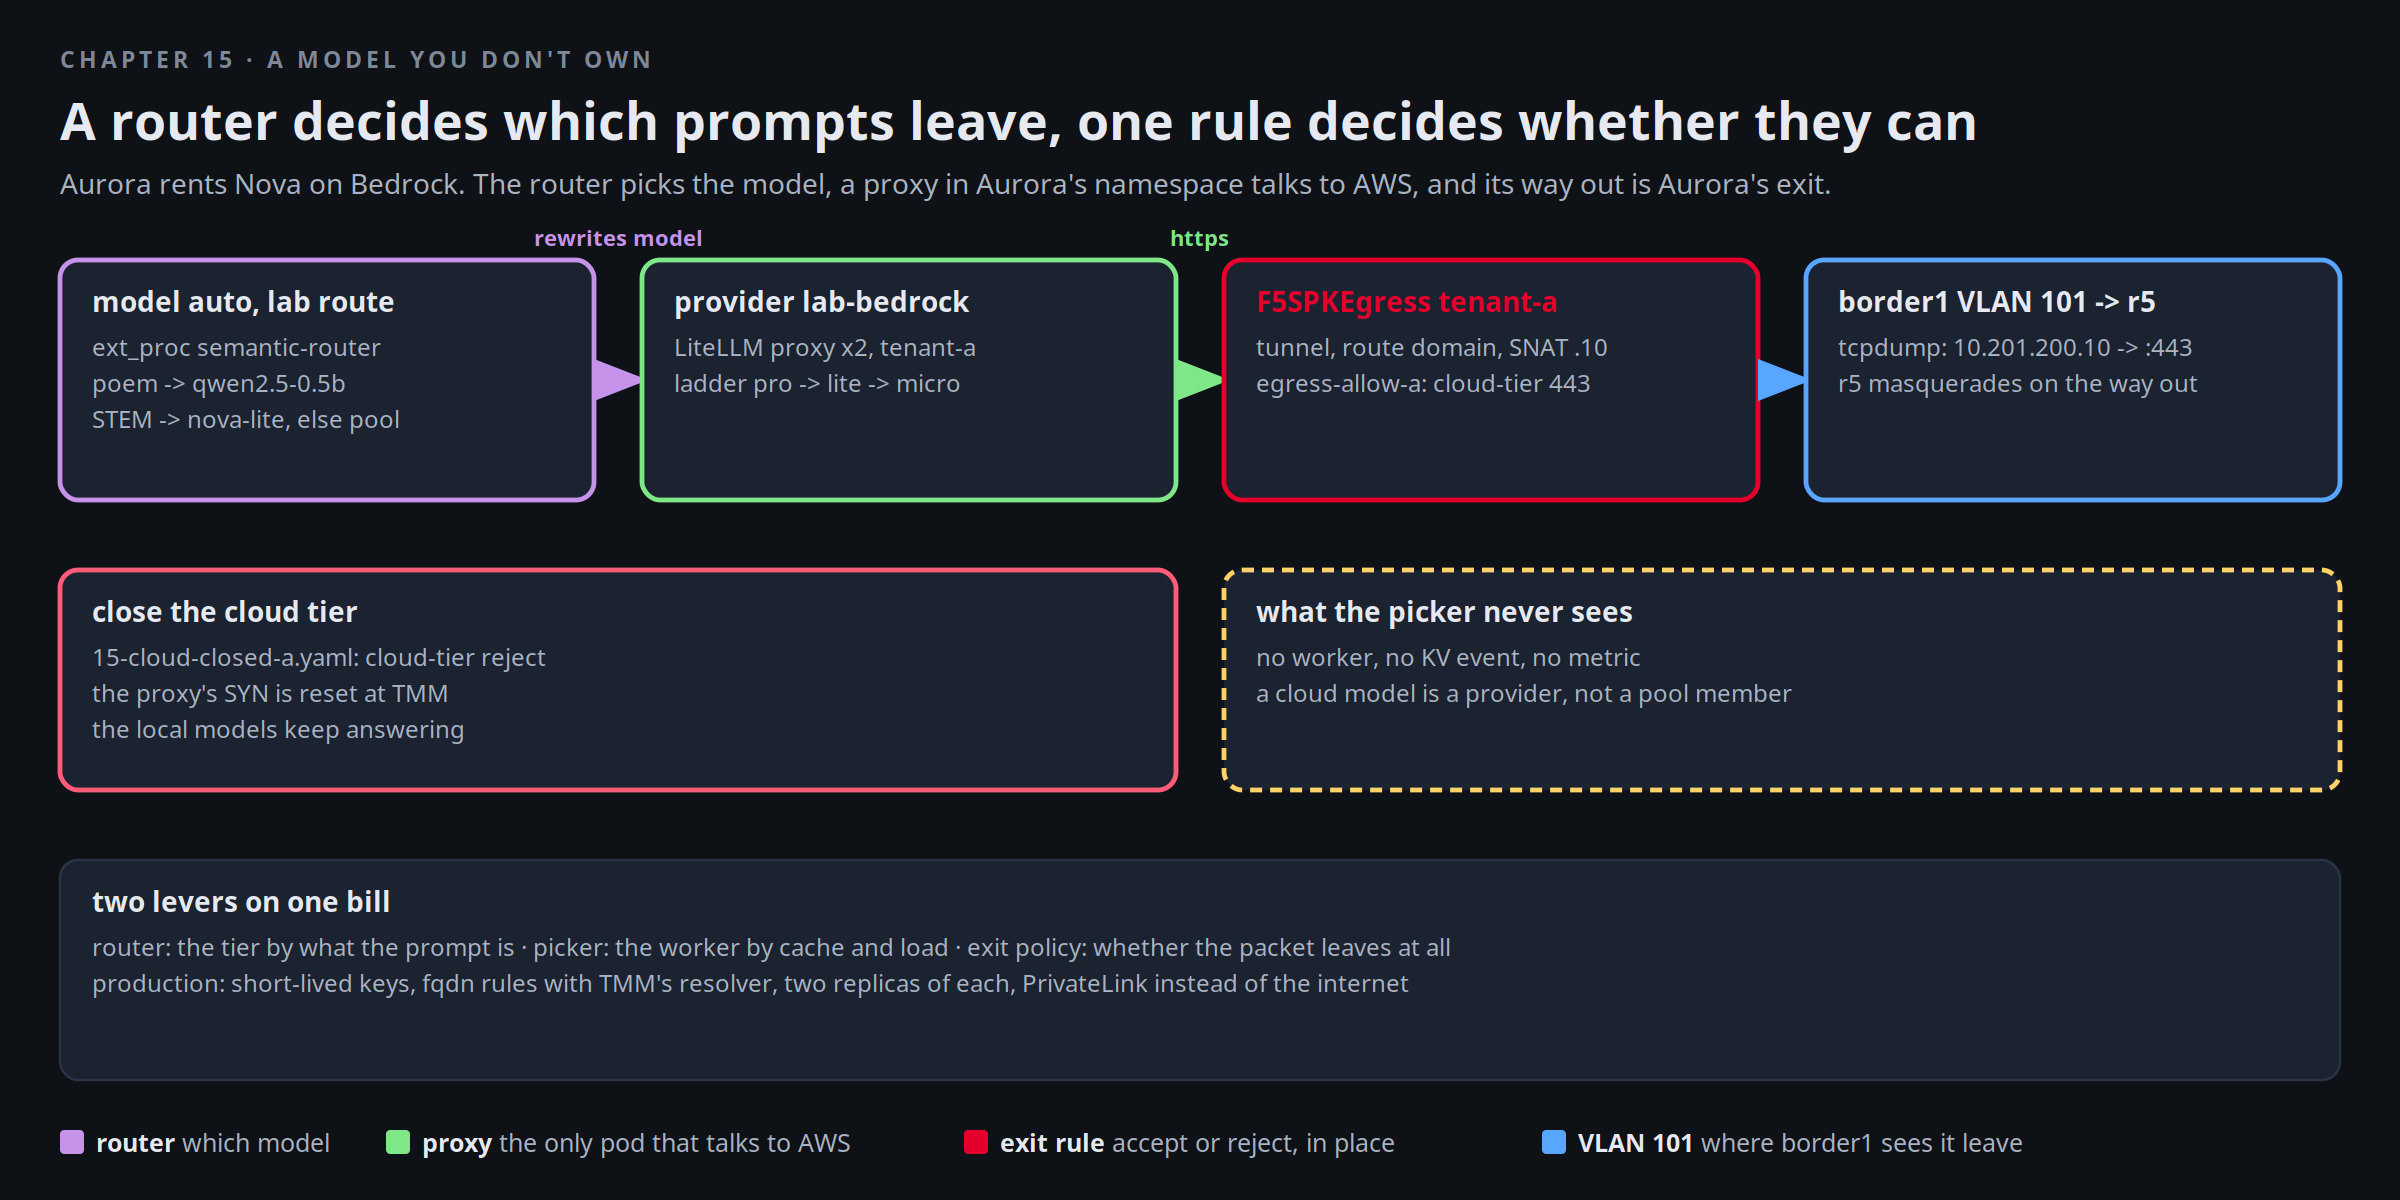
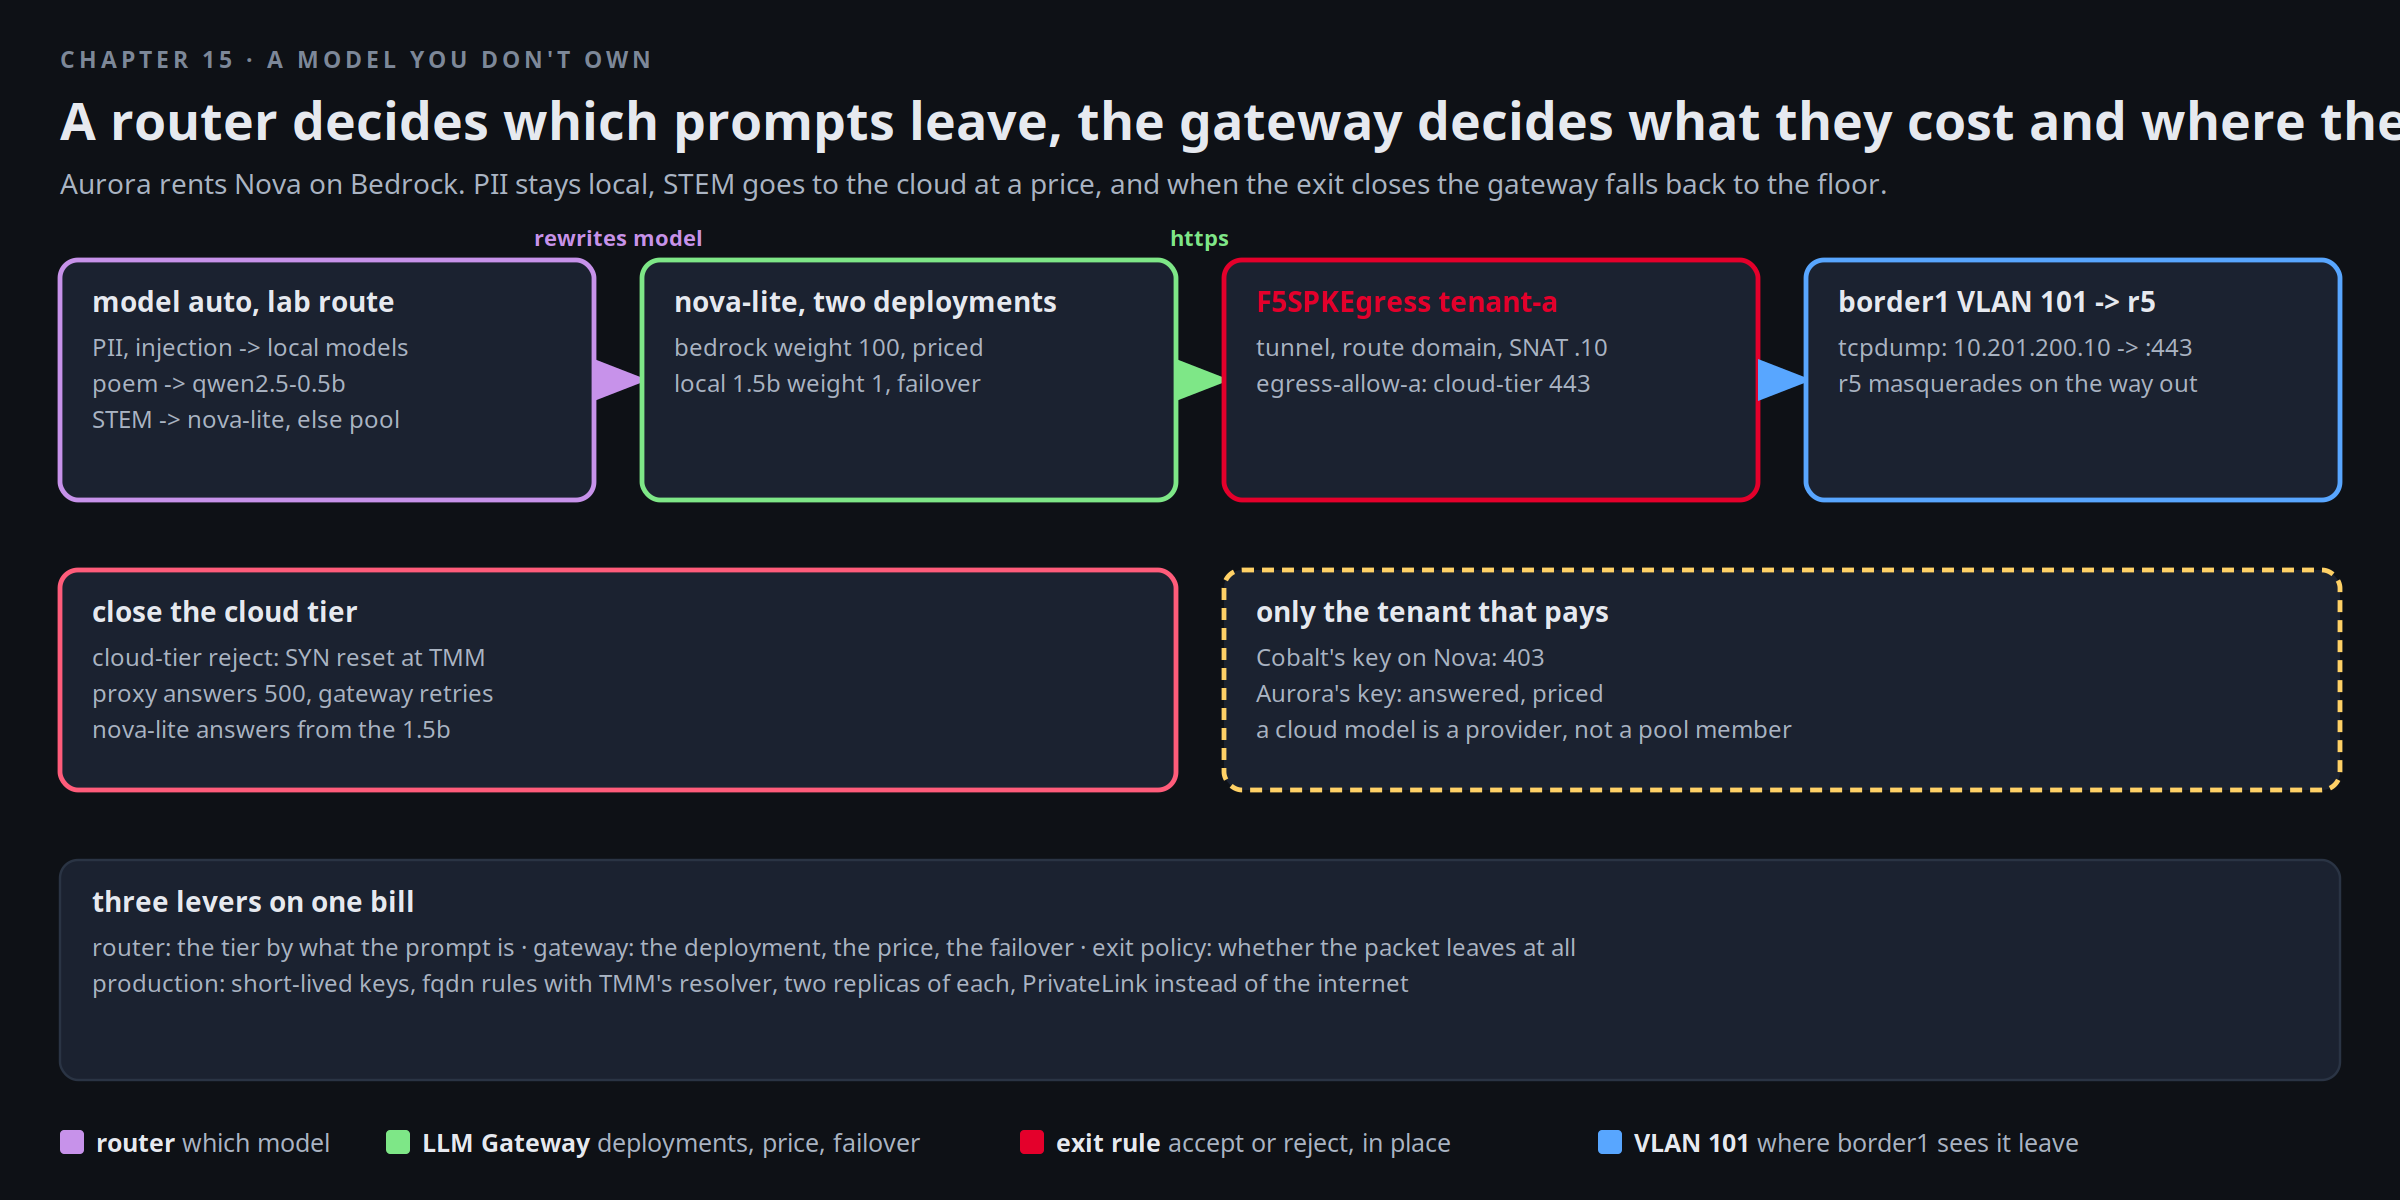
chapter 15 scene: subtitle within the card width

diff --git a/instruqt/bnk-ai-factory-clab/assets/scenes.py b/instruqt/bnk-ai-factory-clab/assets/scenes.py
@@ -341,7 +341,7 @@ def c14():
 
 def c15():
     s = Scene("Chapter 15 · A model you don't own", "A router decides which prompts leave, the gateway decides what they cost and where they fall back",
-              "Aurora rents Nova on Bedrock. PII stays local, STEM goes to the cloud at a price, and when the exit closes the LLM Gateway fails over to the factory floor.")
+              "Aurora rents Nova on Bedrock. PII stays local, STEM goes to the cloud at a price, and when the exit closes the gateway falls back to the floor.")
     s.row(A, AH, [("model auto, lab route", ["PII, injection -> local models", "poem -> qwen2.5-0.5b", "STEM -> nova-lite, else pool"], {"color": PURPLE}),
                   ("nova-lite, two deployments", ["bedrock weight 100, priced", "local 1.5b weight 1, failover"], {"color": GREEN}),
                   ("F5SPKEgress tenant-a", ["tunnel, route domain, SNAT .10", "egress-allow-a: cloud-tier 443"], {"hot": True}),
